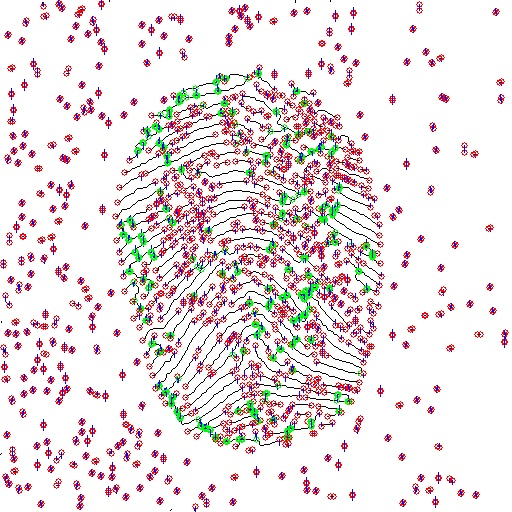
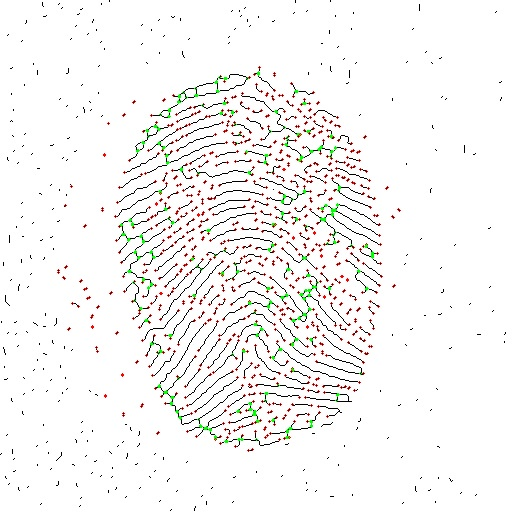
test pour nouveau overlay ovale find_minutiae et debut d''amelioration de json_utils'

diff --git a/json_utils.py b/json_utils.py
@@ -1,8 +1,22 @@
 import json
 data_file = 'base.json'
 
+#FONCTION GESTION DE BASE 
 
+def _charger_base():
+    if os.path.exists(data):
+        with open(data_file, "r", encoding="utf-8") as f:
+            try:
+                return json.load(f)
+            except json.JSONDecodeError:
+                return []
+    return []
 
+def _sauvegarder_base(base):
+    with open(data_file, "w", encoding="utf-8") as f:
+        json.dump(base, f, indent=4, ensure_ascii=False)
+
+###############################################################################################
 
 def ajouter_personne(nom_personne, minutiae_tab):
     """
@@ -12,14 +26,10 @@ def ajouter_personne(nom_personne, minutiae_tab):
         [ [x,y], "type", [x,y] ], \n
         ---
 
-]
-    
+    ]
     """
 
-
-    with open(data_file, "r", encoding="utf-8") as f:
-        base = json.load(f) #ouvre base
-    
+    base = _charger_base()
     # modif format pour coller au json
     minutiae_struct = []
     for elt in minutiae_tab:
@@ -30,19 +40,18 @@ def ajouter_personne(nom_personne, minutiae_tab):
             "orientation": orient
         })
 
-    # new enttry
+    
     nouvelle_entree = {
         "nom": nom_personne,
         "minutiae": minutiae_struct
     }
 
-    # add+ sauvegarde
-    base.append(nouvelle_entree) #(add)
+    # add+ sauvegarde!!!!!
+    base.append(nouvelle_entree) 
 
-    with open(data_file, "w", encoding="utf-8") as f:
-        json.dump(base, f, indent=4, ensure_ascii=False) #dump = l'ajoute et sauvegarde dans le fichierc ?
+    _sauvegarder_base()
+    print(f"add {nom_personne}")
 
-    print(f"add {nom_personne}") #check
 
 
 """
@@ -56,3 +65,28 @@ test
 ajouter_personne("p6", input)
 
 """
+
+def modifier_personne(nom_personne, minutiae_tab=None, nouveau_nom=None, merge=False): #qd None -> PEUT etre remplacé mais Pas OBLIGE
+    base = _charger_base()
+    index = None  
+    for i, p in enumerate(base):
+        if p.get("nom") == nom_personne:
+            index = i
+            break  #s'arrete si trouve
+    if index is None:
+        raise ValueError(f"'{nom_personne}' introuvable")
+    if minutiae_tab is not None:
+        nouvelles = []
+        for item in minutiae_tab:
+            coord = item[0]
+            typ = item[1]
+            orient = item[2]
+
+            element = {
+                "coordonnees": coord,
+                "type": typ,
+                "orientation": orient
+            }
+            nouvelles.append(element)
+
+

diff --git a/minutiae_detection/find_minutiae.py b/minutiae_detection/find_minutiae.py
@@ -5,7 +5,7 @@ import math
 
 def find_minuatiae(filename, output_filename):
 
-    def find(squelette):
+    def find(squelette,sigma=0.5):
 
         minutiae_ending = []#stock minutiae
         minutiae_bifurcation = []
@@ -41,9 +41,9 @@ def find_minuatiae(filename, output_filename):
                     #  4 pixels
                     for dy, dx in directions:
                         try:
-                            if (squelette[i + dy][j + dx] == 1 and
-                                squelette[i + 2*dy][j + 2*dx] == 1 and
-                                squelette[i + 3*dy][j + 3*dx] == 1):
+                            if (squelette[i+ dy][j +dx] == 1 and
+                                squelette[i+2*dy][j+ 2*dx] == 1 and
+                                squelette[i+ 3*dy][j+3*dx] == 1):
 
                                 angle = math.atan2(dy, dx) #angle entre vect et axe x
 
@@ -93,6 +93,9 @@ def find_minuatiae(filename, output_filename):
 
             res.append([[x, y], typ, [dx, dy]])
 
+
+
+
         return res
 
 
@@ -101,7 +104,9 @@ def find_minuatiae(filename, output_filename):
     _, binaire = cv2.threshold(img, 127, 1, cv2.THRESH_BINARY_INV)#passse en binaire pour traitement
 
     # minutiae[[coord], type, [dx, dy]]
-    minutiae = find(binaire)
+    minutiae= find(binaire)
+
+    
 
     # passe en couleur pour dessin des ronds
     color_image = cv2.cvtColor(img, cv2.COLOR_GRAY2BGR)

diff --git a/minutiae_detection/main_find.py b/minutiae_detection/main_find.py
@@ -10,8 +10,8 @@ sys.path.append(parent_dir)
 
 from json_utils import ajouter_personne
 
-filename = 'minutiae_detection\\input\\empreinteS3.jpg'
-output_filename = 'minutiae_detection\\output\\empreinteS3_minutiae.jpg' #[ ] a obtenir automatiquement avec str_modify a l'interieur de find_minutiae
+filename = 'minutiae_detection\\input\\empreinteS.jpg'
+output_filename = 'minutiae_detection\\output\\empreinteS_minutiae.jpg' #[ ] a obtenir automatiquement avec str_modify a l'interieur de find_minutiae
 
 
 pretraitée_file_name = pretraitements(filename)
